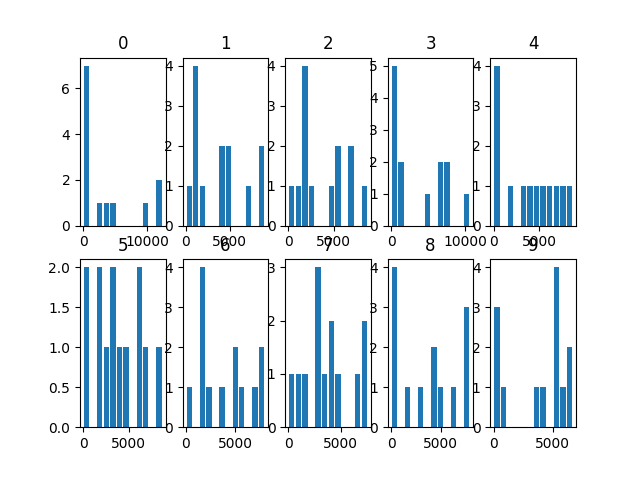
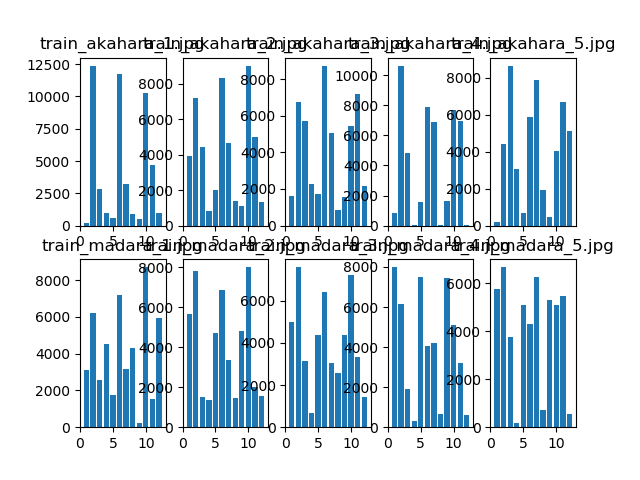
solve 085,086

diff --git a/q81_90/lib8190.py b/q81_90/lib8190.py
@@ -56,34 +56,58 @@ def Harris_corner_detection2(img, ix2g, iy2g, ixyg, k, threshold):
 
 
 # 84
-def Ir1_makedatabase(path, namelist, picnum):
-    database = np.zeros((len(namelist)*picnum,13),dtype=np.int)
-    for i,name in enumerate(namelist):
-        for num in range(1,picnum+1):
-            place = path+"train_"+name+"_"+str(num)+".jpg"
-            img = cv2.imread(place)
-            redu = lib0110.color_reduction(img)
-            height, width, C = redu.shape
-            y = i*picnum+num-1
-            redu -= 32
-            redu /= 64
-            for x in range(12):
-                col = x // 4
-                level = x%4
-                database[y,x]=len(np.where(redu[:,:,col]==level)[0])
-            database[y,12]=i
+def Ir1_makedatabase(path, filenames, labels):
+    database = np.zeros((len(filenames),13),dtype=np.int)
+    for y,fl in enumerate(zip(filenames,labels)):
+        filename = fl[0]
+        label = fl[1]
+        #filename = "train_"+name+"_"+str(num)+".jpg"
+        place = path+filename
+        img = cv2.imread(place)
+        redu = lib0110.color_reduction(img)
+        height, width, C = redu.shape
+        redu -= 32
+        redu /= 64
+        for x in range(12):
+            col = x // 4
+            level = x%4
+            database[y,x]=len(np.where(redu[:,:,col]==level)[0])
+        database[y,12]=label
     return database
 
 # 85
-def Ir2_judge(path, database):
-    img = cv2.imread(path)
-    redu = lib0110.color_reduction(img)
-    height, width, C = redu.shape
-    redu -= 32
-    redu /= 64
-    hist = []
-    for x in range(12):
-        col = x // 4
-        level = x%4
-        hist[x]=len(np.where(redu[:,:,col]==level)[0])
-    
+def Ir2_judge(dirpath, test_filenames, database, train_filenames):
+    ans_labels=[]
+    for filename in test_filenames:
+        img = cv2.imread(dirpath+filename)
+        redu = lib0110.color_reduction(img)
+        height, width, C = redu.shape
+        redu -= 32
+        redu /= 64
+        hist = []
+        min_dist=1000000000
+        min_index=-1
+        for x in range(12):
+            col = x // 4
+            level = x%4
+            hist.append(len(np.where(redu[:,:,col]==level)[0]))
+        for tr in range(database.shape[0]):
+            dist = np.sum(np.abs(database[tr, :12] - hist))
+            print(str(tr)+' : '+str(dist))
+            if min_dist > dist:
+                min_dist = dist
+                min_index = tr
+        print(filename+' :')
+        print('\tnearest : '+train_filenames[min_index])
+        print('\tpredict : '+str(database[min_index, 12]))
+        ans_labels.append(database[min_index, 12])
+    return ans_labels
+
+# 86
+def Ir3_accuracy(ans_labels,pred_labels):
+    num = len(ans_labels)
+    correct = 0
+    for ans,pred in zip(ans_labels,pred_labels):
+        if ans==pred:
+            correct+=1
+    print("Accuracy : " + str(float(correct)/num) + '(' + str(correct) + '/' + str(num) + ')')

diff --git a/q81_90/084.py b/q81_90/084.py
@@ -10,12 +10,19 @@ from q61_70 import lib6170
 
 if __name__ == '__main__':
     img = cv2.imread("Gasyori100knock/Question_81_90/thorino.jpg")
-    
-    database = lib8190.Ir1_makedatabase('Gasyori100knock/Question_81_90/dataset/',['akahara','madara'],5)
+    filenames=[]
+    labels=[]
+    for i,name in enumerate(['akahara','madara']):
+        for num in range(1,6):
+            filenames.append("train_"+name+"_"+str(num)+".jpg")
+            labels.append(i)
+
+    database = lib8190.Ir1_makedatabase('Gasyori100knock/Question_81_90/dataset/',filenames,labels)
+    print(filenames, labels)
     print(database)
 
-    for i, path in enumerate(range(10)):
+    for i, path in enumerate(filenames):
         plt.subplot(2, 5, i+1)
-        plt.hist(database[i,:].ravel(), bins=12, rwidth=0.8)
+        plt.bar(range(1,13), database[i,:12].ravel())
         plt.title(path)
     plt.savefig('./q81_90/084.png')

diff --git a/q81_90/086.py b/q81_90/086.py
@@ -20,8 +20,12 @@ if __name__ == '__main__':
     database = lib8190.Ir1_makedatabase('Gasyori100knock/Question_81_90/dataset/',filenames,labels)
     
     test_filenames=[]
+    test_labels=[]
     for i,name in enumerate(['akahara','madara']):
         for num in range(1,3):
             test_filenames.append("test_"+name+"_"+str(num)+".jpg")
+            test_labels.append(i)
 
-    lib8190.Ir2_judge('Gasyori100knock/Question_81_90/dataset/',test_filenames,database,filenames)
+    predict_labels = lib8190.Ir2_judge('Gasyori100knock/Question_81_90/dataset/',test_filenames,database,filenames)
+
+    accuracy = lib8190.Ir3_accuracy(test_labels, predict_labels)
